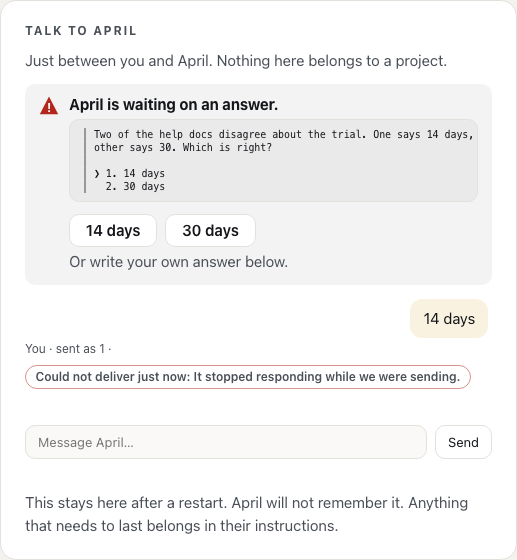
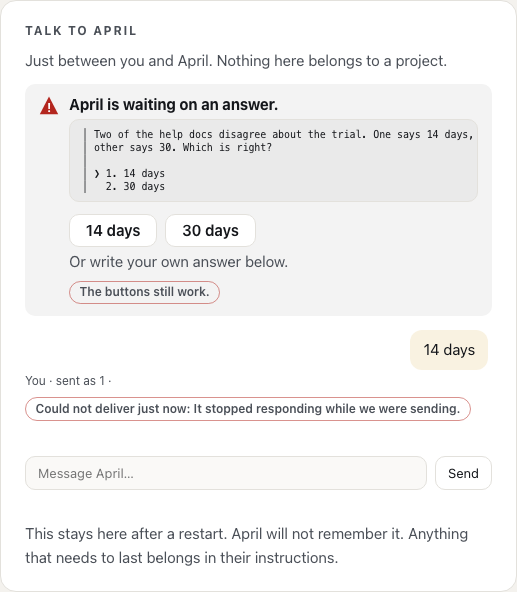
answer-panel -- address challenge-loop iteration 2 findings
Three of the five warnings were inside iteration 1's own fixes, which is the
usual shape: the newest code is the least proven code.

  - The button hold read TALK_QUESTION at VERDICT time while its own comment
    said press time. Reachable: the poll skips paintTalk only when TALK_SENDING
    is already true, so a paint that entered its fetch a beat before the press
    lands inside the flight and rewrites the question from a fresh capture. The
    hold was then keyed to a question nobody answered and the buttons came
    straight back over an answered prompt. Snapshotted at press time now.

  - A FREE-TEXT answer armed nothing. The panel's own line invites that path
    ("Or write your own answer below"), so the second-press harm was live on
    the route the pack recommends. The hold is about answering, not about which
    control was used.

  - TALK_FAILED was cleared only by a successful BUTTON send, so "The buttons
    still work." outlived the question it failed against on a page that polls
    every five seconds for days. It is keyed on the question text now and any
    successful send clears it.

  - The buttons rebuilt ENABLED during a flight, so a press became a silent
    no-op. They rebuild dead.

  - The flight-moved branch re-enabled a Send that now belongs to another
    agent, putting a live button over a closed box. The open agent's own paint
    owns its controls.

  - openDetail's cross-agent clear left the previous agent's question sentence
[…]

diff --git a/web/index.html b/web/index.html
@@ -5129,10 +5129,13 @@ async function paintTalk(sessionName, agentName) {
   // not paint last.
   const mine = ++TALK_LOAD;
   let body;
+  // 404 is the route's standing refusal (a pane holding this name untied), not
+  // a read that failed this second. The sentence below branches on it.
+  let standing = false;
   try {
     const res = await fetch('/api/agent/' + encodeURIComponent(sessionName) + '/thread', { cache: 'no-store' });
     body = await res.json();
-    if (!res.ok) throw new Error(body.error || 'we could not read this conversation');
+    if (!res.ok) { standing = res.status === 404; throw new Error(body.error || 'we could not read this conversation'); }
   } catch (err) {
     if (mine !== TALK_LOAD) return;
     if (!CURRENT || CURRENT.sessionName !== sessionName) return;
@@ -5140,9 +5143,17 @@ async function paintTalk(sessionName, agentName) {
        and never an empty composer either: a box that accepts text over a
        thread we could not read is the two-state lie the pack's own rule is
        about. */
-    document.getElementById('d-dmthread').innerHTML =
-      '<p class="dmnone">We could not read this conversation just now. ('
-      + esc((err && err.message) || 'no detail') + ')</p>';
+    /* ⚠ "JUST NOW" IS A CLAIM ABOUT TIME and it is wrong for a standing
+       refusal: a name a pane holds without being that agent answers 404 every
+       time, and telling somebody to try again is telling them to wait for
+       something that will not change. A transient read failure keeps the
+       time phrase, because there it is true. */
+    document.getElementById('d-dmthread').innerHTML = '<p class="dmnone">'
+      + (standing
+        ? 'We cannot show this conversation. ' + esc(pjSentence((err && err.message) || 'no detail'))
+        : 'We could not read this conversation just now. ('
+          + esc((err && err.message) || 'no detail') + ')')
+      + '</p>';
     document.getElementById('d-qask').hidden = true;
     document.getElementById('d-say').disabled = true;
     document.getElementById('d-send').disabled = true;
@@ -5217,8 +5228,14 @@ async function paintTalk(sessionName, agentName) {
    * prompt twice.
    */
   const opts = (body.asking && !stillTheSame && live && Array.isArray(body.options)) ? body.options : null;
+  /* ⚠ DEAD WHILE A SEND IS IN THE AIR. A paint that lands mid-flight rebuilds
+     these, and the first version rebuilt them ENABLED — undoing the send's own
+     disable. The double send was still refused by the TALK_SENDING guard, so
+     the press became a silent no-op: a button that looks pressable, is pressed,
+     and does nothing at all, for as long as a flight can honestly run. */
+  const dead = TALK_SENDING ? ' disabled' : '';
   qopts.innerHTML = opts
-    ? opts.map((o) => '<button class="qopt" type="button" data-n="' + esc(String(o.n))
+    ? opts.map((o) => '<button class="qopt" type="button"' + dead + ' data-n="' + esc(String(o.n))
         + '" data-label="' + esc(o.label) + '">' + esc(o.label) + '</button>').join('')
     : '';
   qopts.hidden = !opts;
@@ -5266,6 +5283,14 @@ async function paintTalk(sessionName, agentName) {
    * and saying the failure twice on one screen is the noise this codebase
    * keeps removing.
    */
+  /* ⚠ THE FAILURE LINE BELONGS TO THE QUESTION IT FAILED AGAINST. Keyed on
+     the text, so a new question clears it: without that, a failed answer left
+     "The buttons still work." standing under every later menu, on a page that
+     polls every five seconds and stays open for days. */
+  const failed = TALK_FAILED[sessionName];
+  if (failed && (!body.question || failed.question !== body.question.text)) {
+    delete TALK_FAILED[sessionName];
+  }
   const qfail = document.getElementById('d-qask-fail');
   qfail.textContent = (opts && TALK_FAILED[sessionName]) ? 'The buttons still work.' : '';
   qfail.hidden = !qfail.textContent;
@@ -5331,6 +5356,17 @@ async function sendTalk(text, chose) {
   // lands.
   const sentName = CURRENT.sessionName;
   const name = CURRENT.name || sentName;
+  /**
+   * ⚠ READ NOW, NOT AT VERDICT TIME, and the difference is reachable. The poll
+   * only skips `paintTalk` when `TALK_SENDING` is ALREADY true, so a paint that
+   * entered its fetch a beat before this press lands inside the flight and
+   * rewrites `TALK_QUESTION` from a fresh capture. Reading it afterwards keyed
+   * the hold to a question nobody answered, so the buttons came straight back
+   * over an already-answered prompt — the exact harm the hold exists for.
+   * (The comment on `TALK_QUESTION` said this was done from the beginning. It
+   * was not; the comment described the intent and the code read it late.)
+   */
+  const askedAbout = TALK_QUESTION[sentName] || null;
   const flightMoved = () => !CURRENT || CURRENT.sessionName !== sentName;
   const msg = document.getElementById('d-say-msg');
   const say = document.getElementById('d-say');
@@ -5397,17 +5433,33 @@ async function sendTalk(text, chose) {
     /* The button suppression is bookkeeping about THIS send, so it is recorded
        whether or not the flight moved: it is keyed on the agent, and coming
        back to that agent must not re-offer an answer already given. */
-    if (chose) {
+    /**
+     * ⚠ ANY SEND MADE WHILE A QUESTION WAS UP IS AN ANSWER TO IT, not only a
+     * button press. The panel's own line invites the other path — "Or write
+     * your own answer below" — and gating this on `chose` meant a typed answer
+     * left the buttons live over a question it had just answered. That is the
+     * second-press harm arriving on the route the pack recommends.
+     *
+     * The delivery states split two ways, not three: placed and unconfirmed
+     * both mean the words may be in that session, so neither may be offered
+     * again. Only an outright failure leaves the question live.
+     */
+    if (askedAbout) {
       if (d.state === 'placed' || d.state === 'unconfirmed') {
-        TALK_ANSWERED[sentName] = { question: TALK_QUESTION[sentName] || null, at: Date.now() };
-        delete TALK_FAILED[sentName];
+        TALK_ANSWERED[sentName] = { question: askedAbout, at: Date.now() };
       } else {
         // ⚠ Nothing was answered, so nothing may look answered: the question
         // stays, the buttons come back live, and the panel says so.
-        TALK_FAILED[sentName] = true;
+        TALK_FAILED[sentName] = { question: askedAbout };
         delete TALK_ANSWERED[sentName];
       }
     }
+    // ⚠ CLEARED BY ANY SEND THAT GOT THROUGH, not only by a button one. The
+    // first version cleared it on a successful `chose` alone, so a failure
+    // followed by a typed answer left "The buttons still work." standing on a
+    // page that polls every five seconds and is left open for days. (The paint
+    // clears it too, when the question itself changes.)
+    if (d.state === 'placed' || d.state === 'unconfirmed') delete TALK_FAILED[sentName];
     if (!flightMoved()) msg.textContent = line;
   } catch (err) {
     if (!flightMoved()) msg.textContent = pjSentence((err && err.message) || 'we could not send that');
@@ -5418,7 +5470,11 @@ async function sendTalk(text, chose) {
     // it. The record is the account of what happened, visible when that agent
     // is next opened.
     if (!flightMoved()) await paintTalk(sentName, name);
-    else document.getElementById('d-send').disabled = false;
+    /* ⚠ NOTHING IS RE-ENABLED WHEN THE FLIGHT MOVED. That button belongs to
+       whichever agent is open now, and its own paint has already decided
+       whether it may be pressed — an unconditional re-enable put a live Send
+       over a closed box, beside a sentence saying the agent cannot be handed a
+       message. The open agent's poll owns its own controls. */
   }
 }
 
@@ -5474,6 +5530,16 @@ function openDetail(sessionName) {
     document.getElementById('d-qopts').innerHTML = '';
     document.getElementById('d-qopts').hidden = true;
     document.getElementById('d-qout').hidden = true;
+    /* ⚠ THE SENTENCE AND THE CAPTURED PANE TOO. They sit behind `hidden`, so
+       nothing was shown — but this block's own rule is that the box holds the
+       strongest version of cross-agent misattribution, and leaving one agent's
+       question text loaded under another agent's name is that, one `hidden`
+       away. The render check reads them directly and saw April's sentence on
+       every state, including the ones where nothing was asking. */
+    document.getElementById('d-qask-lab').textContent = '';
+    document.getElementById('d-qask-text').textContent = '';
+    document.getElementById('d-qask-text').hidden = true;
+    document.getElementById('d-qask-fail').hidden = true;
     document.getElementById('d-dmthread').innerHTML = '<p class="dmnone">Opening&hellip;</p>';
     document.getElementById('d-talk-older').hidden = true;
     document.getElementById('d-dmoff').hidden = true;

diff --git a/docs/browser-checks/render-talk.js b/docs/browser-checks/render-talk.js
@@ -42,20 +42,26 @@ const QUESTION = {
   ].join('\n'),
 };
 
+/**
+ * ⚠ EXACTLY THE ROUTE'S OWN PAYLOAD, field for field. The first version also
+ * carried `agent`, `viewport` and `agentsUnreadable` — three fields the route
+ * deliberately does NOT serve, and whose absence `server.projects.test.js`
+ * pins. A fixture that invents fields the producer does not make is how six
+ * rounds of review passed against a world that does not exist (see the note at
+ * `safeRoster`), and nothing lints this file: `fixture-discipline.test.js`
+ * only reads `*.test.js`.
+ */
 const base = {
-  agent: { sessionName: 'april', name: 'April' },
   messages: [],
   olderCount: 0,
   historyBecause: null,
   historyUnfilable: false,
   presence: 'on',
   presenceBecause: null,
-  viewport: { text: null, because: 'engineering mode is off, so the window is not shown' },
   asking: false,
   question: null,
   questionBecause: null,
   options: null,
-  agentsUnreadable: false,
 };
 
 const placed = (text, wire) => ({
@@ -81,6 +87,10 @@ const STATES = {
       at: new Date().toISOString(), text: '14 days', wire: '1',
       delivery: { state: 'could_not', because: 'it stopped responding while we were sending', paneNote: null },
     }],
+    // ⚠ THE FLAG A REAL FAILED SEND SETS. Without it this state rendered as
+    // "the buttons happen to still be there" and the committed screenshot did
+    // not show the one sentence that distinguishes state 4 in the drawing.
+    __failed: true,
   },
   '5-no-parse': { ...base, asking: true, question: { text: '│ One I cannot answer from the docs: when somebody adds a second\n│ person, does that person get their own trial, or join the existing one?' } },
   '6-off': {
@@ -164,12 +174,15 @@ const STATES = {
       // The answered-hold is client state, so it is armed the way a real send
       // arms it: keyed on the question text the paint recorded.
       await page.evaluate((f) => {
+        delete TALK_ANSWERED.april;
+        delete TALK_FAILED.april;
+        if (f.question) TALK_QUESTION.april = f.question.text;
         if (f.__answered) {
-          TALK_QUESTION.april = f.question.text;
           TALK_ANSWERED.april = { question: f.question.text, at: Date.now() };
-        } else {
-          delete TALK_ANSWERED.april;
-          delete TALK_FAILED.april;
+        }
+        if (f.__failed) {
+          // Keyed on the question it failed against, exactly as sendTalk keys it.
+          TALK_FAILED.april = { question: f.question.text };
         }
       }, fx);
       await page.evaluate(() => paintTalk('april', 'April'));
@@ -203,6 +216,7 @@ const STATES = {
           sendDisabled: el('d-send').disabled,
           label: el('d-talk-label').textContent,
           qlab: el('d-qask-lab').textContent,
+          qfail: el('d-qask-fail').hidden ? '' : el('d-qask-fail').textContent,
           // ⚠ WHAT IS ACTUALLY ON TOP at the box's own centre. `hidden` on
           // an overlay is a claim; this is the pixel.
           rect: JSON.stringify(el('d-talk-box').getBoundingClientRect()),
@@ -218,6 +232,16 @@ const STATES = {
         };
       });
       const tag = `${name}/${theme}`;
+      // ⚠ THE STATE-4 SENTENCE IS ASSERTED, not merely photographed. It is the
+      // one thing that distinguishes that state, and the fixture that was
+      // supposed to produce it did not, so the committed evidence for state 4
+      // showed everything except state 4.
+      if (name === '4-failed' && !/buttons still work/.test(m.qfail)) {
+        problems.push(`${tag}: state 4 is missing its own sentence (qfail: ${JSON.stringify(m.qfail)})`);
+      }
+      if (name !== '4-failed' && m.qfail) {
+        problems.push(`${tag}: the failure sentence is showing where nothing failed: ${JSON.stringify(m.qfail)}`);
+      }
       if (m.onTop !== 'the box') problems.push(`${tag}: something else is painted over the box: ${m.onTop}`);
       if (m.pageOverflow > 0) problems.push(`${tag}: the PAGE scrolls sideways by ${m.pageOverflow}px`);
       if (m.boxOverflow > 0) problems.push(`${tag}: the box overflows by ${m.boxOverflow}px`);

diff --git a/server.projects.test.js b/server.projects.test.js
@@ -1961,7 +1961,7 @@ test('an agent whose name cannot be filed under is a third fact, not an unreadab
   });
 });
 
-test('the two question failures are two sentences, and neither is silence', async () => {
+test('a question we cannot find on the screen is SAID, not rendered as no question', async () => {
   reset();
   // "We read its screen and the question is not in the capture" is not "we
   // could not read its screen at all". They were one string once, so a failed
@@ -2011,4 +2011,45 @@ test('the raw window is NOT served from this route, so engineering mode has noth
   } finally {
     restoreEng();
   }
+});
+
+test('the words in the bubble are checked against the screen, where the screen can still be read', async () => {
+  reset();
+  // ⚠ `chose` is the one half of the pair the server does not derive: the
+  // digit is what it types, the words are what the client hands it. A record
+  // whose whole job is not to lie about the mechanism must not carry words the
+  // visible screen contradicts.
+  const menu = 'Do you want to proceed?\n❯ 1. 14 days\n  2. 30 days\n';
+  await withAgent(fleet.agent('zeta', { state: 'needs_you' }), [said(menu), said(), said()], async () => {
+    await post('/api/agent/zeta/thread', { text: '1', chose: 'something nobody was offered' });
+    const body = json(await req('/api/agent/zeta/thread'));
+    const row = body.messages[body.messages.length - 1];
+    assert.equal(row.text, '1', 'the bubble falls back to what was actually sent');
+    assert.equal(row.wire, null, 'and no mechanism is claimed that did not happen');
+  });
+  reset();
+  // The control: the SAME send with the label the screen really shows is kept.
+  await withAgent(fleet.agent('zeta', { state: 'needs_you' }), [said(menu), said(), said()], async () => {
+    await post('/api/agent/zeta/thread', { text: '1', chose: '14 days' });
+    const body = json(await req('/api/agent/zeta/thread'));
+    const row = body.messages[body.messages.length - 1];
+    assert.equal(row.text, '14 days', 'the option’s own words, as the person read them');
+    assert.equal(row.wire, '1');
+  });
+});
+
+test('a pane that has already moved on is not asked to prove what the person read', async () => {
+  reset();
+  // ⚠ THE ASYMMETRY IS DELIBERATE. A prompt closes the moment it is answered,
+  // so by the next send the menu is gone -- and demanding proof from a screen
+  // that has moved on would strip the words in the ORDINARY case to defend
+  // against one the single-origin write guard already covers.
+  await withAgent(fleet.agent('zeta', { state: 'needs_you' }),
+    [said('working on it now, no menu here\n'), said(), said()], async () => {
+      await post('/api/agent/zeta/thread', { text: '1', chose: '14 days' });
+      const body = json(await req('/api/agent/zeta/thread'));
+      const row = body.messages[body.messages.length - 1];
+      assert.equal(row.text, '14 days', 'the words the person read are kept');
+      assert.equal(row.wire, '1', 'and the record still says what was typed');
+    });
 });

diff --git a/server.js b/server.js
@@ -1822,7 +1822,7 @@ const server = http.createServer((req, res) => {
          * waiting for. So it is dropped rather than refused, and the bubble
          * falls back to showing what was actually sent.
          */
-        const chose = (typeof body.chose === 'string' && !chat.messageProblem(body.chose))
+        let chose = (typeof body.chose === 'string' && !chat.messageProblem(body.chose))
           ? body.chose : null;
 
         const roster = safeRoster();
@@ -1834,6 +1834,30 @@ const server = http.createServer((req, res) => {
           const missing = new Error('no agent by that name');
           missing.status = 404;
           throw missing;
+        }
+        /**
+         * ⚠ THE WORDS ARE CHECKED AGAINST THE SCREEN WHERE WE CAN SEE IT.
+         * `chose` arrives from the client, and it is the half of the pair the
+         * server does not derive — so a client bug could put words in the
+         * record that were never on the person's screen, under a mechanism
+         * that says the opposite. Where the pane still shows a menu we can
+         * parse, the label for that digit must be the label we were handed.
+         *
+         * ⚠ AND IT IS NOT REQUIRED WHERE WE CANNOT SEE IT. A pane that has
+         * already redrawn parses to nothing, and the person DID read those
+         * words a moment ago — dropping them there would make the record less
+         * faithful in the ordinary case to defend against a case this app's
+         * single-origin write guard already covers. So: never claim words the
+         * visible screen contradicts, and do not demand proof from a screen
+         * that has moved on. The digit is unaffected either way; only the
+         * bubble's wording is at stake.
+         */
+        if (chose) {
+          const seen = chat.viewport(name, roster);
+          const asked = (seen && seen.text) ? chat.questionIn(seen.text) : null;
+          const menu = asked ? chat.optionsIn(asked.text) : null;
+          const row = menu ? menu.find((o) => String(o.n) === String(body.text).trim()) : null;
+          if (row && row.label !== chose) chose = null;
         }
         // Deliver first, then record the verdict with it — and record even a
         // failure, exactly as the project thread does.
